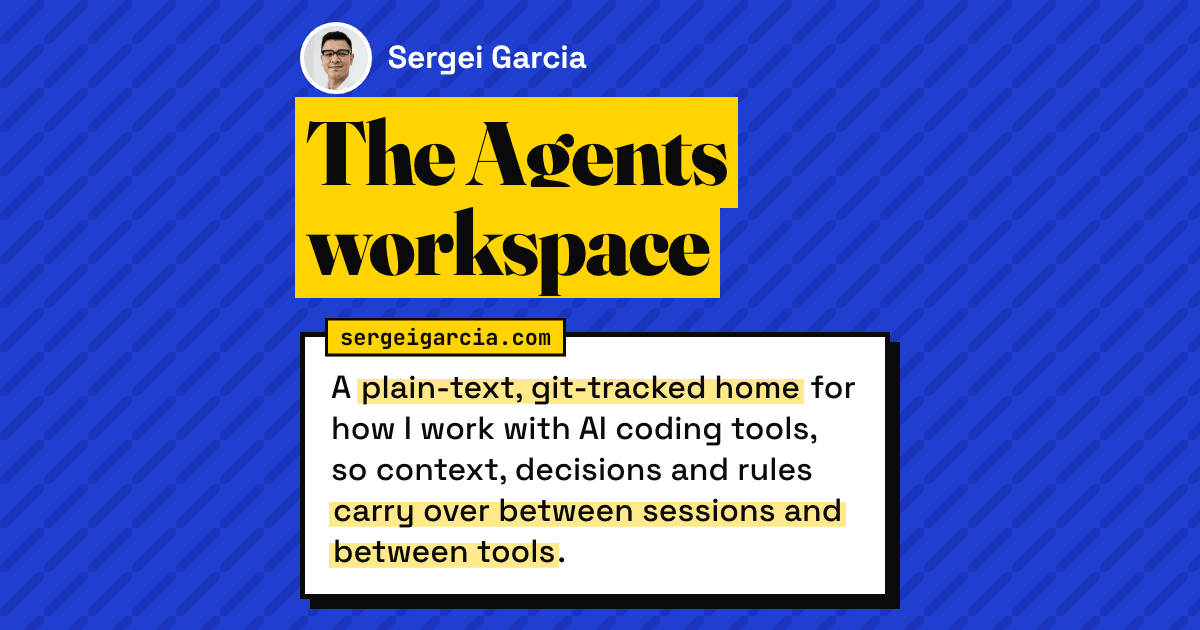
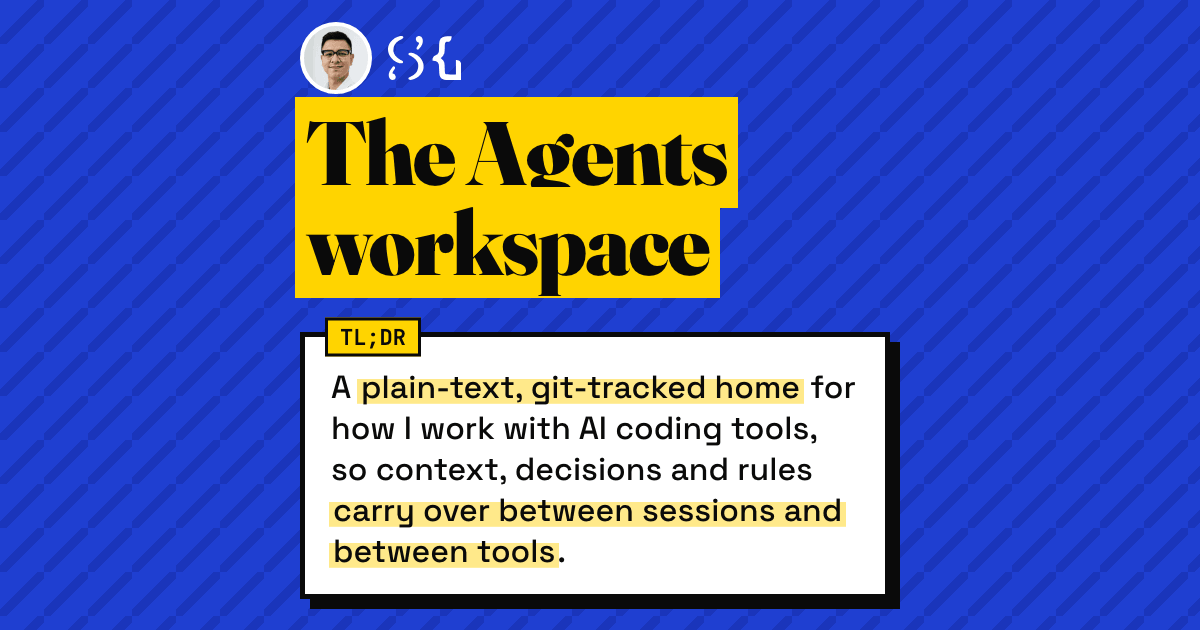
Use the SG mark instead of the written name and URL
The owner prefers the SG mark to speak for itself over his written name and
URL. Platforms already show the URL under a share image, so it was duplicate
information.

Header: the home link shows only the SG mark at every width (aria-label kept).
The mark is 28px, and the chip padding drops 2px so the chip stays 44px tall
and the header heights that tests pin do not change.

Share images: OgIdentity gets a mark option. The article posters and the page
bands draw the mark next to or under the headshot instead of name and site.
The page band box no longer carries the URL as its label (it says TL;DR like
the articles). The home hero is unchanged, its giant name is the title.
og-default.png drops the URL line and shows the mark. scripts/og-image.mjs
pointed at a font package that is no longer installed, so it now uses the
variable JetBrains Mono file. The social-safe test checks for the mark rather
than the name. All share images regenerated.

Changed region(s): [[0.2775, 0.4825, 0.4933, 0.573], [0.3083, 0.0603, 0.4933, 0.1206]]

diff --git a/tests/social-safe.spec.ts b/tests/social-safe.spec.ts
@@ -75,9 +75,9 @@ for (const { d, s } of CASES) {
 
     const roles = items.map((f) => f.role);
     expect(roles, "title is drawn").toContain("title");
-    // The name and avatar are drawn by every design except the homepage ones (where the title is the name).
+    // The SG mark and avatar are drawn by every design except the homepage ones (where the title is the name).
     if (d.startsWith("a") || d === "p1") {
-      expect(roles, "name is drawn").toContain("name");
+      expect(roles, "SG mark is drawn").toContain("mark");
       expect(roles, "avatar is drawn").toContain("avatar");
     }
     // The ticker strip shows exactly the three phrases, whole (they are checked against the safe box below).

diff --git a/src/styles/global.css b/src/styles/global.css
@@ -394,7 +394,8 @@
      cleaner than a colored fill next to the hero. */
   .hit-logo {
     min-height: 0;
-    padding: var(--spacing-xs) var(--spacing-sm);
+    /* 28px mark + 6px + 6px + 2px borders = the same 44px chip as before. */
+    padding: calc(var(--spacing-xs) - 2px) var(--spacing-sm);
   }
   /* Icon-only chip: a 44px square (the logos carry the meaning; the name is in aria-label). */
   .hit-icon {
